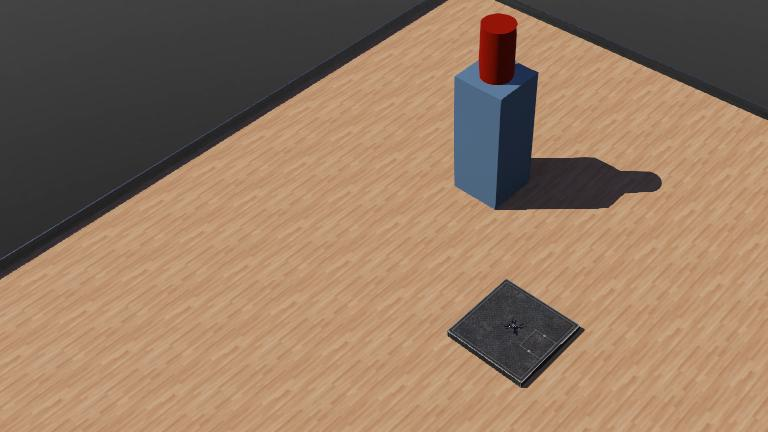
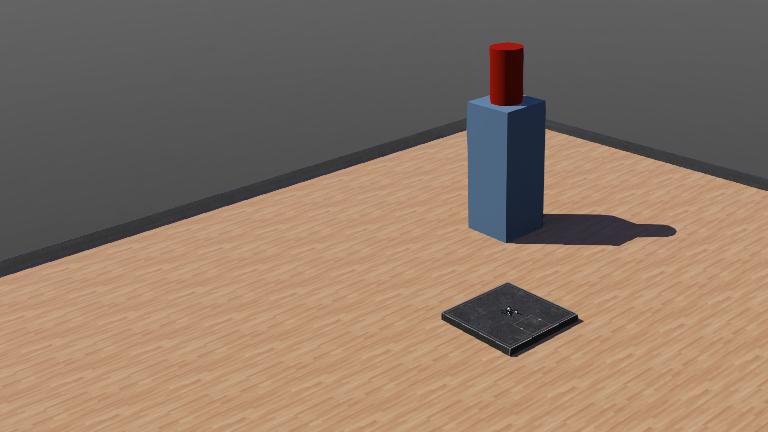
Funciones(1.2) PID

diff --git a/controllers/Controlador_principal/Controlador_principal.py b/controllers/Controlador_principal/Controlador_principal.py
@@ -1,0 +1,97 @@
+"""Controlador_principal controller."""
+
+# You may need to import some classes of the controller module. Ex:
+#  from controller import Robot, Motor, DistanceSensor
+# pyrefly: ignore [missing-import]
+from controller import Robot
+from pid import PID
+from odometria_imu import OdometriaIMU
+from trayectoria import control_trayectoria
+
+
+
+
+# create the Robot instance.
+robot = Robot()
+
+# get the time step of the current world.
+timestep = int(robot.getBasicTimeStep())
+m1=robot.getDevice('m1_motor')
+m1.setPosition(float('inf'))
+m1.setVelocity(0.0)
+
+m2=robot.getDevice('m2_motor')
+m2.setPosition(float('inf'))
+m2.setVelocity(0.0)
+
+m3=robot.getDevice('m3_motor')
+m3.setPosition(float('inf'))
+m3.setVelocity(0.0)
+
+m4=robot.getDevice('m4_motor')
+m4.setPosition(float('inf'))
+m4.setVelocity(0.0)
+
+imu=robot.getDevice('inertial_unit')
+imu.enable(timestep)
+
+gps=robot.getDevice('gps')
+gps.enable(timestep)
+
+gyro=robot.getDevice('gyro')
+gyro.enable(timestep)
+
+camera =robot.getDevice('camera')
+camera.enable(timestep)
+
+acelerometro=robot.getDevice('accelerometer')
+acelerometro.enable(timestep)
+
+
+
+pid_obj=PID()
+odom_obj=OdometriaIMU()
+tray_obj=control_trayectoria()
+
+num_puntos=tray_obj.puntos_necesarios()
+puntos=tray_obj.puntos_trayectoria_circular(num_puntos)
+
+timepo_pas=robot.getTime()
+
+
+
+
+
+# You should insert a getDevice-like function in order to get the
+# instance of a device of the robot. Something like:
+#  motor = robot.getDevice('motorname')
+#  ds = robot.getDevice('dsname')
+#  ds.enable(timestep)
+
+# Main loop:
+# - perform simulation steps until Webots is stopping the controller
+while robot.step(timestep) != -1:
+
+    timepo_act=robot.getTime()
+    dt=timepo_act-timepo_pas
+    timepo_pas=timepo_act
+    roll=imu.getRollPitchYaw()[0]
+    pitch=imu.getRollPitchYaw()[1]
+    yaw_rate=gyro.getValues()[2]
+    
+    x=gps.getValues()[0]
+    y=gps.getValues()[1]
+    z=gps.getValues()[2]
+
+
+    # Read the sensors:
+    # Enter here functions to read sensor data, like:
+    #  val = ds.getValue()
+
+    # Process sensor data here.
+
+    # Enter here functions to send actuator commands, like:
+    #  motor.setPosition(10.0)
+    pass
+
+# Enter here exit cleanup code.

diff --git a/controllers/crazyfliepy/pid.py b/controllers/crazyfliepy/pid.py
@@ -17,21 +17,21 @@ class PID:
 
         self.k=48.0
         #kp
-        self.kp = 0.0
-        self.kp_roll=0.0
-        self.kp_pitch=0.0
-        self.kp_yaw=0.0
-        self.kp_vx=0.0
-        self.kp_vy=0.0
+        self.kp = 10.0
+        self.kp_roll=0.5
+        self.kp_pitch=0.5
+        self.kp_yaw=1.0
+        self.kp_vx=2.0
+        self.kp_vy=2.0
         #Kd
-        self.kd = 0.0
-        self.kd_roll=0.0
-        self.kd_pitch=0.0
-        self.kd_yaw=0.0
-        self.kd_vx=0.0
-        self.kd_vy=0.0
+        self.kd = 5.0
+        self.kd_roll=0.1
+        self.kd_pitch=0.1
+        self.kd_yaw=0.5
+        self.kd_vx=0.5
+        self.kd_vy=0.5
         #ki
-        self.ki=0.0
+        self.ki=5.0
         self.ki_roll=0.0
         self.ki_pitch=0.0
         self.ki_yaw=0.0
@@ -80,3 +80,28 @@ class PID:
         comando_yaw=(((clamp(error_actual,-1,1))*self.kp_yaw)+(error_derivado*self.kd_yaw))
         self.error_yaw=error_actual
         return comando_yaw
+    
+    def control_vx(self,vx_act, vx_des,dt):
+        error_actual=(vx_des-vx_act)
+        error_derivado=(error_actual-self.error_x)/dt
+        comando_pitch=(((clamp(error_actual,-1,1))*self.kp_vx)+(error_derivado*self.kd_vx))
+        self.error_x=error_actual
+        return comando_pitch
+    
+    def control_vy(self,vy_act, vy_des,dt):
+        error_actual=(vy_des-vy_act)
+        error_derivado=(error_actual-self.error_y)/dt
+        comando_roll=(((clamp(error_actual,-1,1))*self.kp_vy)+(error_derivado*self.kd_vy))
+        self.error_y=error_actual
+        return -comando_roll
+
+    def vel_motores(self,roll,pitch,yaw,z):
+        vel_m1=z-roll+pitch+yaw
+        vel_m2=z-roll-pitch-yaw
+        vel_m3=z+roll-pitch+yaw
+        vel_m4=z+roll+pitch-yaw
+        velocidades=[vel_m1,vel_m2,vel_m3,vel_m4]
+        return velocidades
+
+
+
